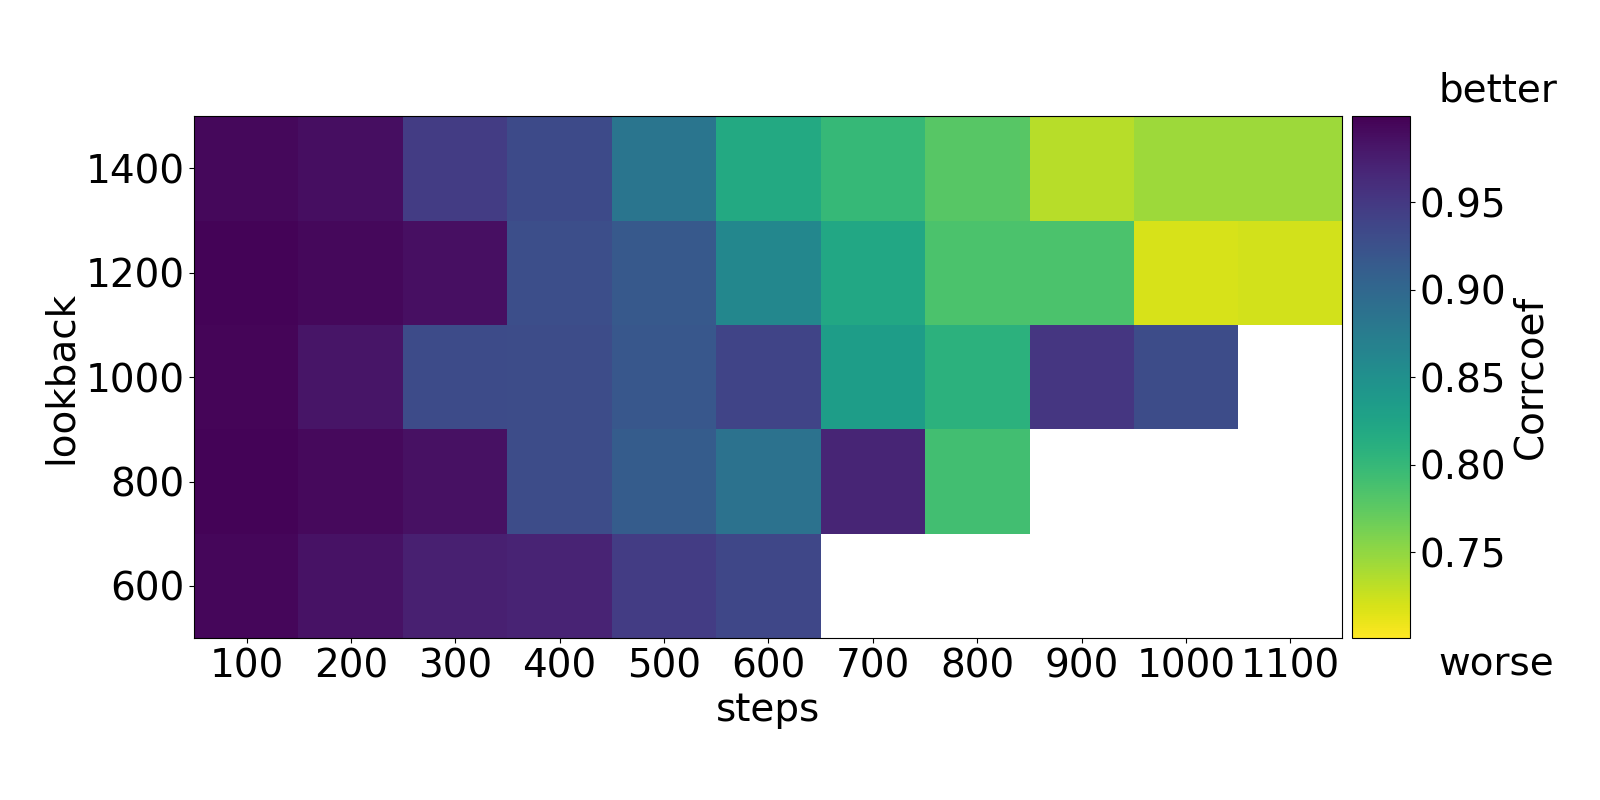
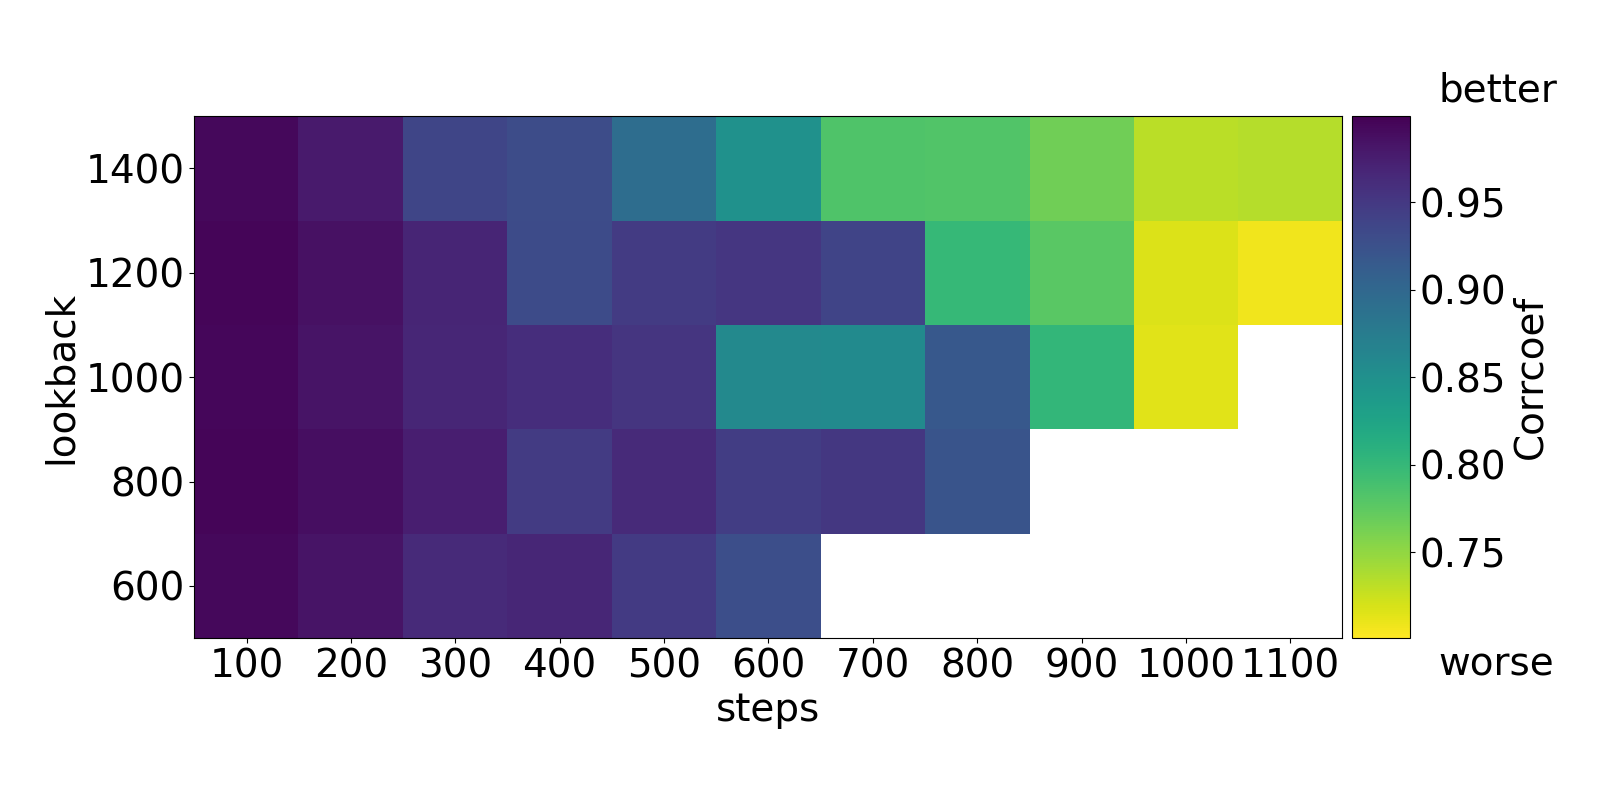
within tolerance figure

Changed region(s): [[0.25, 0.125, 0.8438, 0.6875]]

diff --git a/main.py b/main.py
@@ -395,9 +395,9 @@ def plot_main(repo_path: str, data_path: str):
     data = DataManager(repo_path, excel_filename=data_path)
     plot_grid_graph(data.get_column_data('lookback'),
                     data.get_column_data('steps'),
-                    data.get_column_data('overall_pcc'),
+                    data.get_column_data('feature_1_within_tol'),
                     title='',
-                    metric_name='Corrcoef',
+                    metric_name='Within 10% Tolerance',
                     unit='',
                     scale=1.0,
                     figsize=(16, 8),
@@ -405,7 +405,7 @@ def plot_main(repo_path: str, data_path: str):
                     reverse_colorbar_color=True,
                     cmap='viridis',
                     font_size=28,
-                    vrange=(0.701, 0.999))
+                    vrange=(0.35, 1.0))
 
 def demo_different_scalers():
     """演示不同scaler的使用"""
@@ -513,7 +513,7 @@ if __name__ == "__main__":
 
 """
 最终文章用模型：
-mae
+mae2
 mse2
 mse-corr3
 mse-int3
